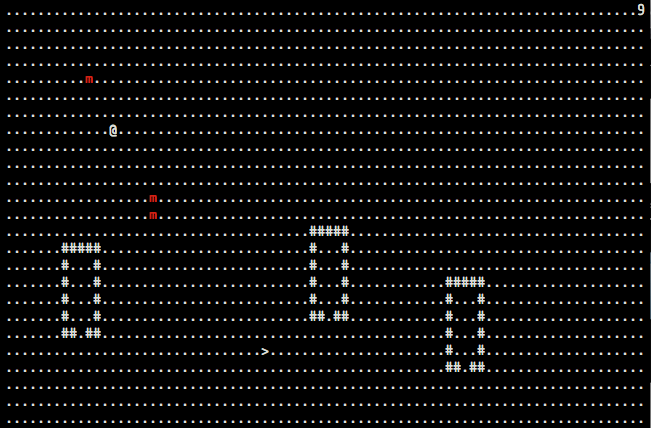
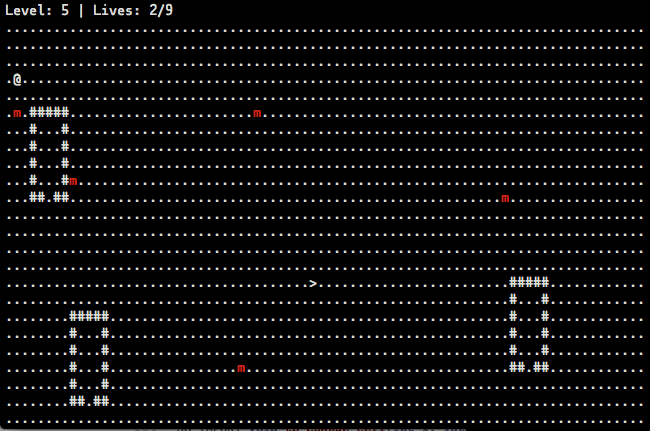
added a seperated statusbar updated screenshot & README therefore

Changed region(s): [[0.0, 0.1519, 1.0, 1.0], [0.0, 0.0, 1.0, 0.1519], [0.1231, 0.0911, 0.1538, 0.1215]]

diff --git a/src/main.c b/src/main.c
@@ -3,6 +3,7 @@
 #include <stdlib.h> // for rand
 #include <time.h> // for time()
 #include <math.h> // for abs
+#include <string.h> // for strcat and so on
 
 #define debug(M, ...) fprintf(stderr, "DEBUG %s:%d: " M "\n", __FILE__, __LINE__, ##__VA_ARGS__)
 
@@ -11,6 +12,12 @@ enum{
 	TRUE = 1,
 };
 
+#define MAP_START_X 0
+#define MAP_START_Y 1
+#define MAP_END_X map_dimensions[0]
+#define MAP_END_Y map_dimensions[1]
+
+#define PLAYER_LIVES 9
 
 int map_dimensions[2];
 
@@ -30,6 +37,17 @@ struct liveform {
 void generate_map(int map[map_dimensions[0]][map_dimensions[1]])
 {
 	extern int map_dimensions[2];
+	
+	// intialize the map by filling it with spaces
+	int mapx;
+	int mapy;
+	for(mapx = 0; mapx < map_dimensions[0]; mapx++)
+	{
+		for(mapy = 0; mapy < map_dimensions[1]; mapy++)
+		{
+			map[mapx][mapy] = ' ';
+		}
+	}
 	// generate map
 	// map is a array of arrays:
 	// map[map_dimensions[0]][map_dimensions[1]]
@@ -54,8 +72,8 @@ void generate_map(int map[map_dimensions[0]][map_dimensions[1]])
 	int housec = 1 + ( rand() % 3);
 
 	while(housec > 0){
-		house_start[0] = rand() % ( map_dimensions[0] - 6 ); 
-		house_start[1] = rand() % ( map_dimensions[1] - 6 );
+		house_start[0] = rand() % (MAP_END_X - MAP_START_X - 6) + MAP_START_X; 
+		house_start[1] = rand() % (MAP_END_Y - MAP_START_Y - 6) + MAP_START_Y;
 
 		int housex = house_start[0];
 		int housey = house_start[1];
@@ -82,11 +100,9 @@ void generate_map(int map[map_dimensions[0]][map_dimensions[1]])
 	}
 
 	// fill the rest with ground ('.')
-	int mapx;
-	for(mapx = 0; mapx < map_dimensions[0]; mapx++)
+	for(mapx = MAP_START_X; mapx < MAP_END_X; mapx++)
 	{
-		int mapy;
-		for(mapy = 0; mapy < map_dimensions[1]; mapy++){
+		for(mapy = MAP_START_Y; mapy < MAP_END_Y; mapy++){
 			if(map[mapx][mapy] != '#')
 			{
 				map[mapx][mapy] = '.';
@@ -96,24 +112,52 @@ void generate_map(int map[map_dimensions[0]][map_dimensions[1]])
 	}
 }
 
-void draw(int map[map_dimensions[0]][map_dimensions[1]], struct liveform *player, int stairs[2], int monsterc, struct liveform monsters[])
+void draw(int map[map_dimensions[0]][map_dimensions[1]], struct liveform *player, int stairs[2], int level, int monsterc, struct liveform monsters[])
 {
 	extern int map_dimensions[2];
-
+	// clear the screen
 	tb_clear();
-
+	
+	// walk trough the map...
 	int mapx;
+	int mapy;
 	for(mapx = 0; mapx < map_dimensions[0]; mapx++)
 	{
-		int mapy;
 		for(mapy = 0; mapy < map_dimensions[1]; mapy++){
+			// ...and draw the map
 			tb_change_cell(mapx,mapy,map[mapx][mapy],TB_WHITE,TB_DEFAULT);
 		}
 
 	}
+	
+	// draw the status bar
+	char level_str[100];
+	char lives_str[100];
+	sprintf(level_str, "Level: %d |", level);
+	sprintf(lives_str, "Lives: %d/%d", player->lives, PLAYER_LIVES); 
 
-	tb_change_cell(tb_width() - 1, 0, player->lives + '0', TB_WHITE, TB_DEFAULT);
-	for(int i = 0; i < monsterc; i++)
+
+	int stri;
+	int level_str_end;
+	for(stri = 0; level_str[stri] != '\0'; stri++)
+	{
+		tb_change_cell(0 + stri, 0, (uint32_t) level_str[stri], TB_WHITE, TB_DEFAULT);
+	}
+	
+	// start drawing from the end of the level string + 1 space
+	level_str_end = stri + 1;
+
+	for(stri = 0; lives_str[stri] != '\0'; stri++)
+	{
+		tb_change_cell(0 + level_str_end + stri, 0, (uint32_t) lives_str[stri], TB_WHITE, TB_DEFAULT);
+	}
+
+	// draw the stairs to the next level
+	tb_change_cell(stairs[0], stairs[1], '>',TB_WHITE,TB_DEFAULT);
+
+	// draw the monsters
+	int i;
+	for(i = 0; i < monsterc; i++)
 	{
 		// the monster hasn't been put on the "graveyard" in (-1,-1)
 		if(monsters[i].x != - 1 && monsters[i].y != - 1) 
@@ -122,9 +166,9 @@ void draw(int map[map_dimensions[0]][map_dimensions[1]], struct liveform *player
 		}
 	}
 
+	// draw the player!
 	tb_change_cell(player->x, player->y, player->c, TB_WHITE, TB_DEFAULT);
-	tb_change_cell(stairs[0], stairs[1], '>',TB_WHITE,TB_DEFAULT);
-
+	// present the screen to the player
 	tb_present();
 }
 
@@ -132,7 +176,7 @@ int test_position(int x, int y, struct liveform *player, int map[map_dimensions[
 {
 	extern int map_dimensions[2];
 	// is the position in the terminal? Is there no '#'? Is there no player (needed for the better fighting mechanism)
-	if(x >= 0 && x < tb_width() && y >= 0 && y < tb_height() && map[x][y] != '#' && (player->x != x || player->y != y)){ 
+	if(x >= MAP_START_X && x < MAP_END_X && y >= MAP_START_Y && y < MAP_END_Y && map[x][y] != '#' && (player->x != x || player->y != y)){ 
 		return 1;
 	}else{
 		return 0;
@@ -296,7 +340,7 @@ int main(void)
 
 	// intialize the player struct
 	struct liveform player;
-	player.lives = 9;
+	player.lives = PLAYER_LIVES;
 	player.c = '@';
 
 	// { x-pos of the stairs to the next level, y-pos of stairs }
@@ -314,8 +358,8 @@ int main(void)
 
 	do{
 		// reset the player's location
-		player.x = 0;
-		player.y = 0;
+		player.x = MAP_START_X;
+		player.y = MAP_START_Y;
 
 		// init the size of the map. The map does NOT resize
 		map_dimensions[0] = tb_width();
@@ -331,8 +375,8 @@ int main(void)
 		// pick a random location for the exit
 		// that is accesible to the player
 		do{
-			stairs[0] = rand() % tb_width();
-			stairs[1] = rand() % tb_height();
+			stairs[0] = rand() % (MAP_END_X - MAP_START_X) + MAP_START_X;
+			stairs[1] = rand() % (MAP_END_Y - MAP_START_Y) + MAP_START_Y;
 		}while(!test_position(stairs[0], stairs[1], &player, map));
 
 		// random count of monsters
@@ -342,15 +386,15 @@ int main(void)
 
 		for(int i = 0; i < monsterc; i++)
 		{
-			monsters[i].x = rand() % tb_width();
-			monsters[i].y = rand() % tb_height();
+			monsters[i].x = rand() % (MAP_END_X - MAP_START_X) + MAP_START_X;
+			monsters[i].y = rand() % (MAP_END_Y - MAP_START_Y) + MAP_START_Y;
 			monsters[i].lives = 1 + ( rand() % 2);
 			monsters[i].c = 'm';
 		}
 
 		while(!exit)
 		{
-			draw(map, &player, stairs, monsterc, monsters);
+			draw(map, &player, stairs, level,  monsterc, monsters);
 			tb_poll_event(&event); // wait for an event
 
 			switch(event.type)

diff --git a/README.md b/README.md
@@ -13,7 +13,8 @@ Somewhen you maybe will be able to finish your adventure.
 
 Control the `@` using `hjkl` or the arrow keys. If you get bored of this game (you won't, trust me), you can exit with `ESC` `^(C|D)` or `q`.
 
-	@..........................9 <- Your Lives
+	Level: 1 | Lives 9/9
+	@...........................
 	...........#####............
 	...m.......#...#............
 	...........#...#............
